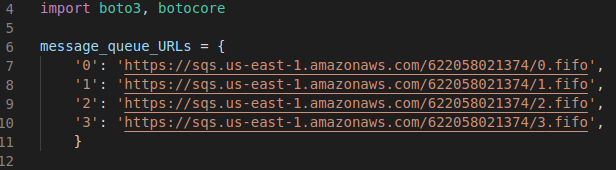
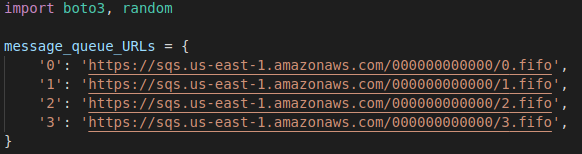
update queue url

diff --git a/code/TransactionGenerator.py b/code/TransactionGenerator.py
@@ -4,10 +4,10 @@ from Transaction import Transaction
 import boto3, random
 
 message_queue_URLs = {
-    '0': 'https://sqs.us-east-1.amazonaws.com/622058021374/0.fifo',
-    '1': 'https://sqs.us-east-1.amazonaws.com/622058021374/1.fifo',
-    '2': 'https://sqs.us-east-1.amazonaws.com/622058021374/2.fifo',
-    '3': 'https://sqs.us-east-1.amazonaws.com/622058021374/3.fifo',
+    '0': 'https://sqs.us-east-1.amazonaws.com/000000000000/0.fifo',
+    '1': 'https://sqs.us-east-1.amazonaws.com/000000000000/1.fifo',
+    '2': 'https://sqs.us-east-1.amazonaws.com/000000000000/2.fifo',
+    '3': 'https://sqs.us-east-1.amazonaws.com/000000000000/3.fifo',
 }
 
 

diff --git a/code/Messenger.py b/code/Messenger.py
@@ -4,10 +4,10 @@ from threading import Thread
 import boto3, botocore
 
 message_queue_URLs = {
-	'0': 'https://sqs.us-east-1.amazonaws.com/622058021374/0.fifo',
-	'1': 'https://sqs.us-east-1.amazonaws.com/622058021374/1.fifo',
-	'2': 'https://sqs.us-east-1.amazonaws.com/622058021374/2.fifo',
-	'3': 'https://sqs.us-east-1.amazonaws.com/622058021374/3.fifo',
+	'0': 'https://sqs.us-east-1.amazonaws.com/000000000000/0.fifo',
+	'1': 'https://sqs.us-east-1.amazonaws.com/000000000000/1.fifo',
+	'2': 'https://sqs.us-east-1.amazonaws.com/000000000000/2.fifo',
+	'3': 'https://sqs.us-east-1.amazonaws.com/000000000000/3.fifo',
 	}
 
 class Messenger:
